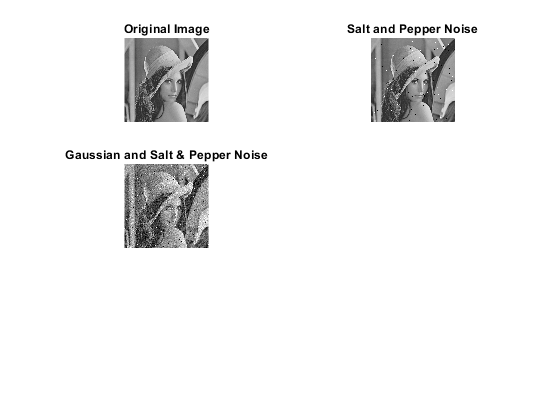
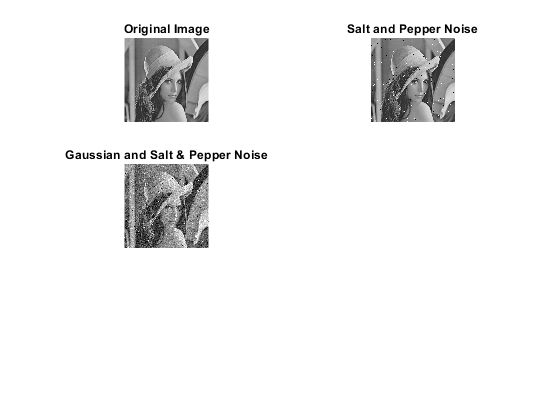
Version 1

Changed region(s): [[0.2125, 0.3714, 0.3946, 0.5881]]

diff --git a/ECE313_FinalProject_fachambe_dfhardy.m b/ECE313_FinalProject_fachambe_dfhardy.m
@@ -17,12 +17,13 @@
 % however, it would be ideal to have a universal filter that can detect and
 % remove both Gaussian and impulse noise.
 %% Proposed Solution
-% Talk here
+% The proposed solution is to define a switching bilateral filter (SBF)
+% which can detect both Gaussian and impulse noise and filter accordingly. 
 %% Data Sources
 % Write shit here
 %% Solutions
 % First we distribute noise over the image.
-I = imread('lena_image.png');
+I = im2double(imread('lena_image.png'));
 I = rgb2gray(I);    % Convert to a grayscale image 
 subplot(3,2,1),imshow(I);
 title('Original Image');
@@ -34,7 +35,8 @@ subplot(3,2,2),imshow(Isp);
 title('Salt and Pepper Noise');
 
 % Add Gaussian Noise
-In = imnoise(Isp, 'gaussian');
+%In = imnoise(Isp, 'gaussian');
+In=imnoise(I,'gaussian');
 subplot(3,2,3),imshow(In);
 title('Gaussian and Salt & Pepper Noise');
 Inew = In; % Inew will be the image where pixels are modified
@@ -43,9 +45,9 @@ Inew = In; % Inew will be the image where pixels are modified
 % Constants
 [m,n] = size(In);
 N=2;
-p = 33;     % any value in the range [25,40] is good (according to research paper)
-Tk1 = 25;   % Tk1 and Tk2 are values provided in the research paper
-Tk2 = 5;
+p = 35;     % any value in the range [25,40] is good (according to research paper)
+Tk1 = 30;   % Tk1 and Tk2 are values provided in the research paper
+Tk2 = 15;
 Ic = 0;     % SBF constant --> do not confuse with image variables
 for i=N+1:m-N-1
     for j=N+1:n-N-1
@@ -67,11 +69,15 @@ for i=N+1:m-N-1
             Ic=In(i,j);
             u = SBF(In,i,j,N,Ic);
         end
+        if u == 1
+            disp([i,j]);
+        end
         Inew(i,j) = u;
     end
 end
 figure;
-imshow(Inew);
+subplot(1,1,1),imshow(Inew);
+title('New Image');
 figure;
 imshow(In);
 disp('done');

diff --git a/noiseDetector.m b/noiseDetector.m
@@ -8,10 +8,6 @@ function [S1,S2] = noiseDetector(x,SQMR,Tk1,Tk2)
 % S1=1, S2=0 implies Gaussian noise
 % S1=0, S2=0 implies noise free
 
-% Assume noise-free for now
-S1 = 0;
-S2 = 0;
-
 if abs(x-SQMR) >= Tk1
     % Impulse noise
     S1 = 1;
@@ -20,6 +16,10 @@ elseif abs(x-SQMR) >= Tk2
     % Gaussian noise
     S1 = 1;
     S2 = 0; 
+else 
+    % Noise free
+    S1 = 0;
+    S2 = 0;
 end
 
 end

diff --git a/referenceMedian.m b/referenceMedian.m
@@ -9,7 +9,8 @@ else
     % Strong edge case
     % For now, assume the following since the research paper does not
     % specify the directional averages very well 
-    SQMR = (SQMV(2) + SQMV(3))/2;
+    % SQMR = (SQMV(2) + SQMV(3))/2;
+    SQMR = (SQMV(1)+SQMV(2)+SQMV(3)+SQMV(4))/4;
 end
     
 end
